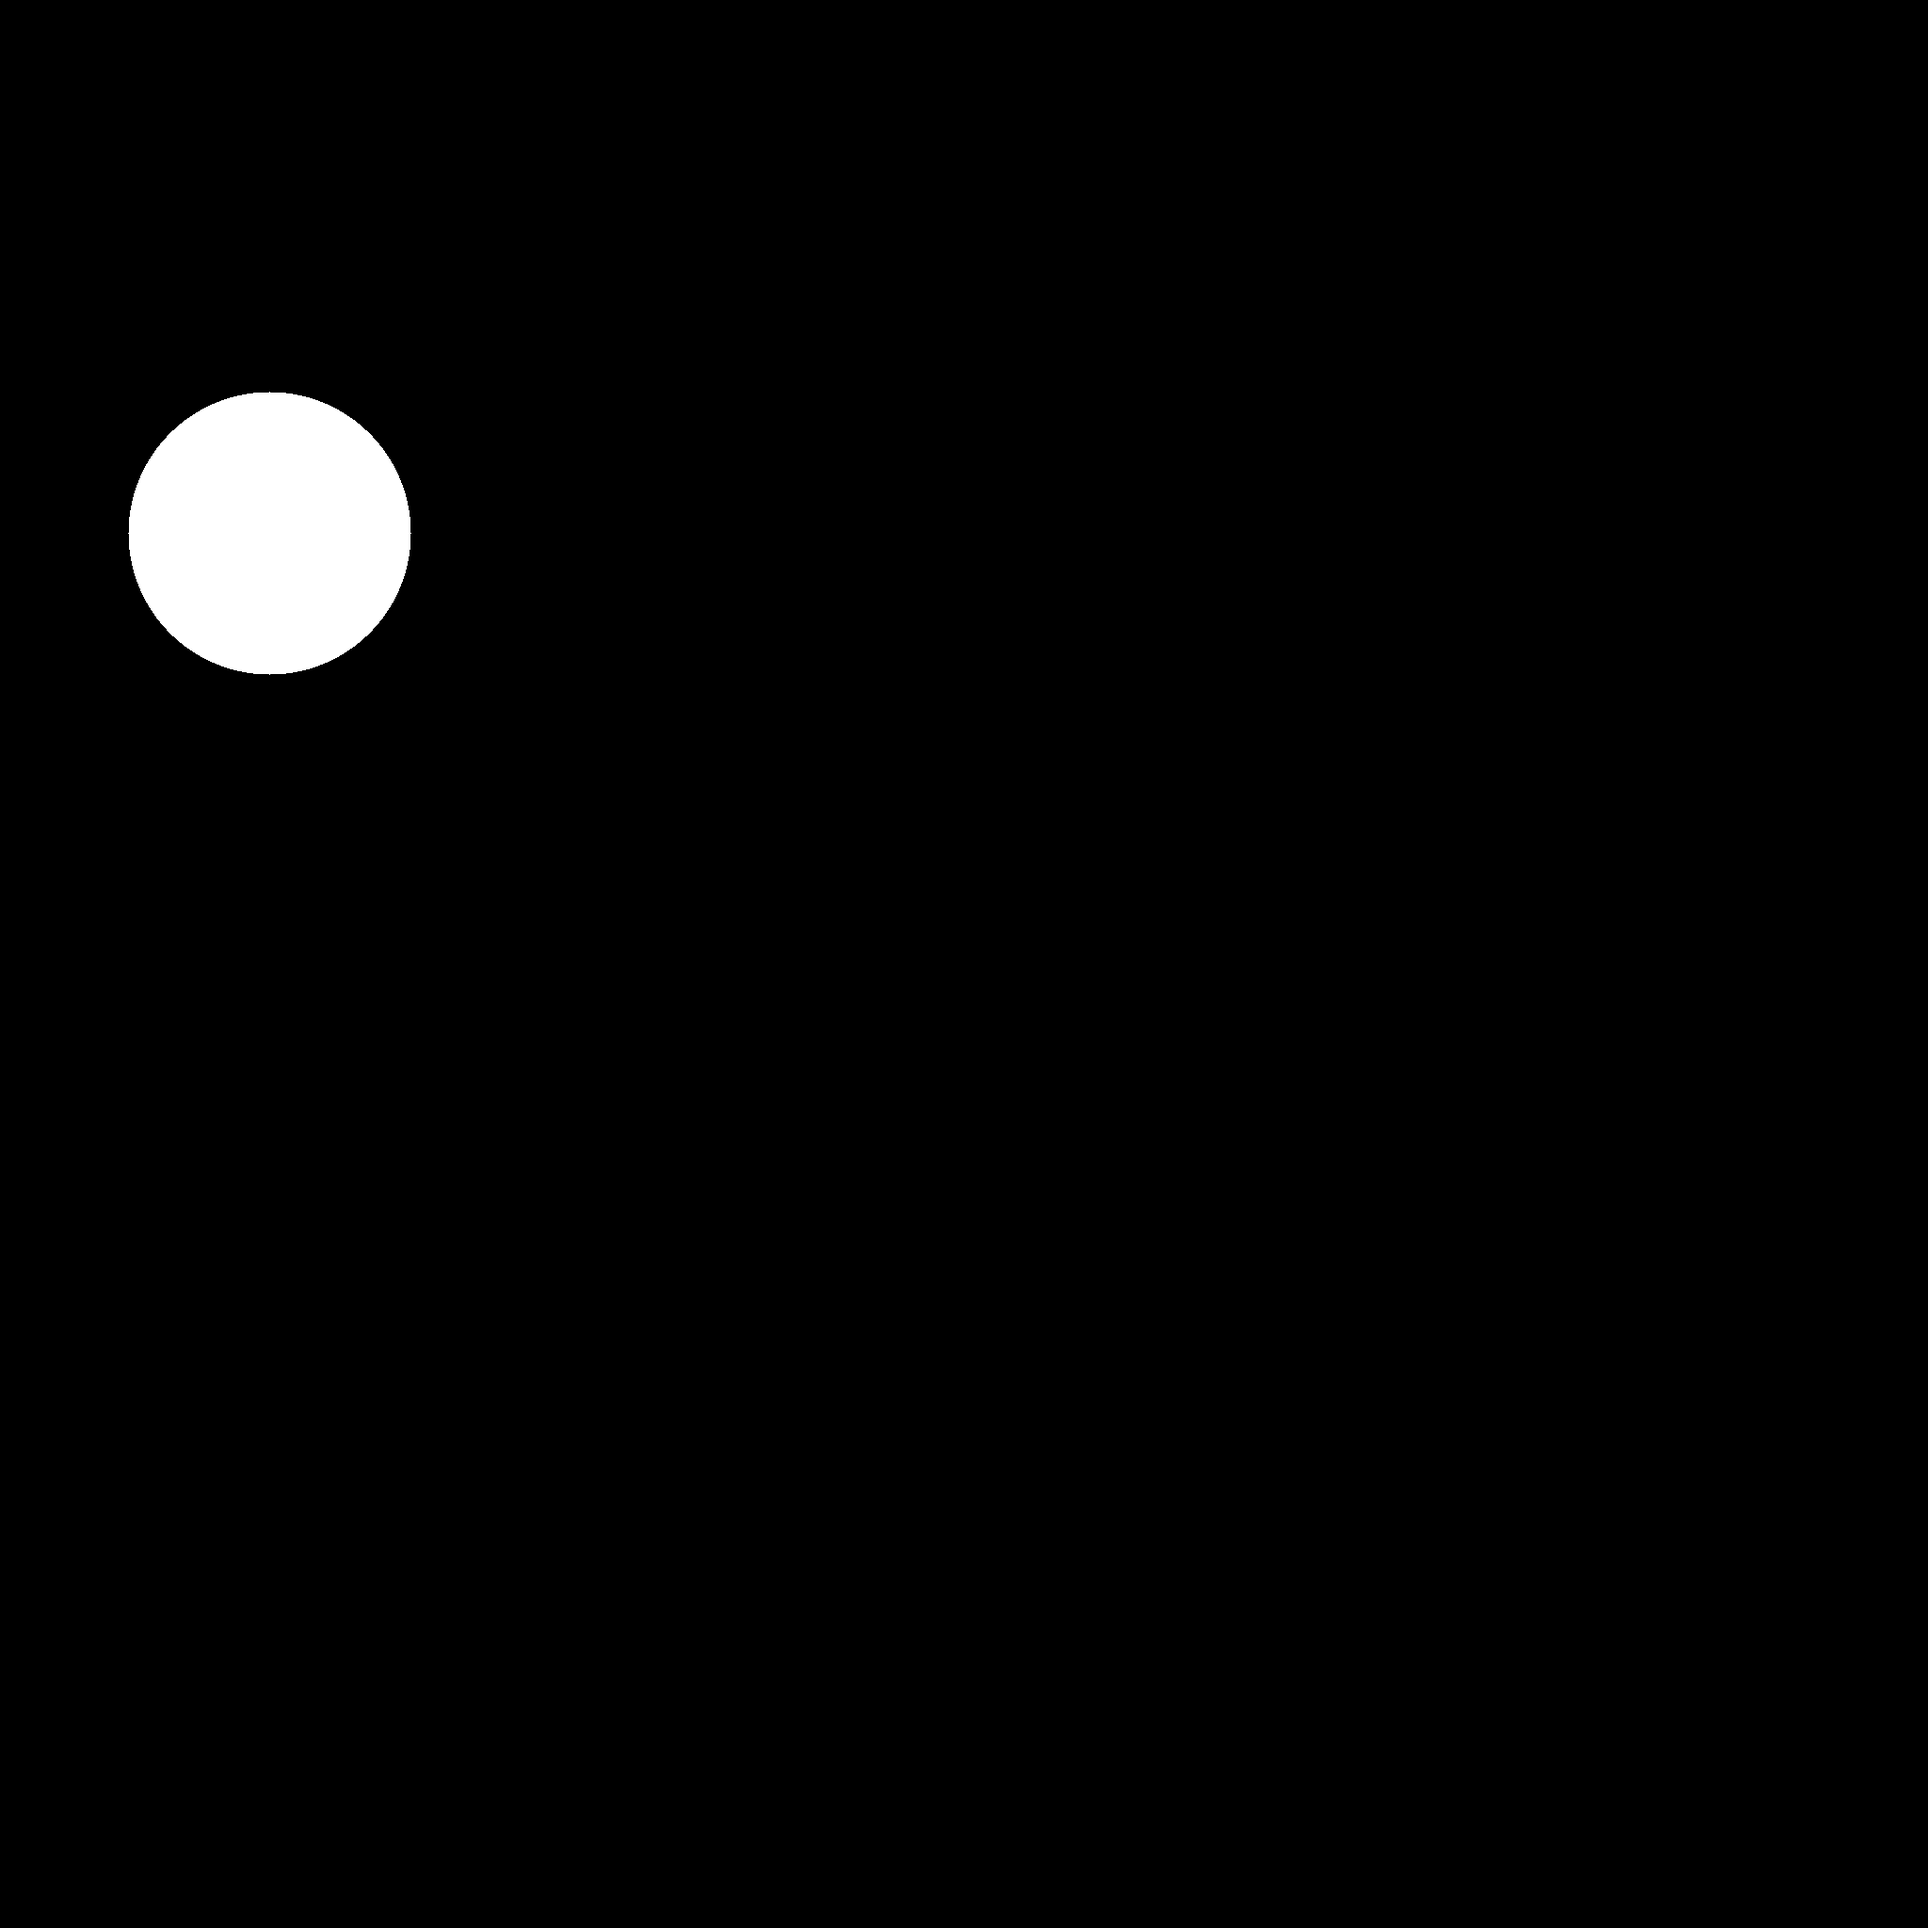
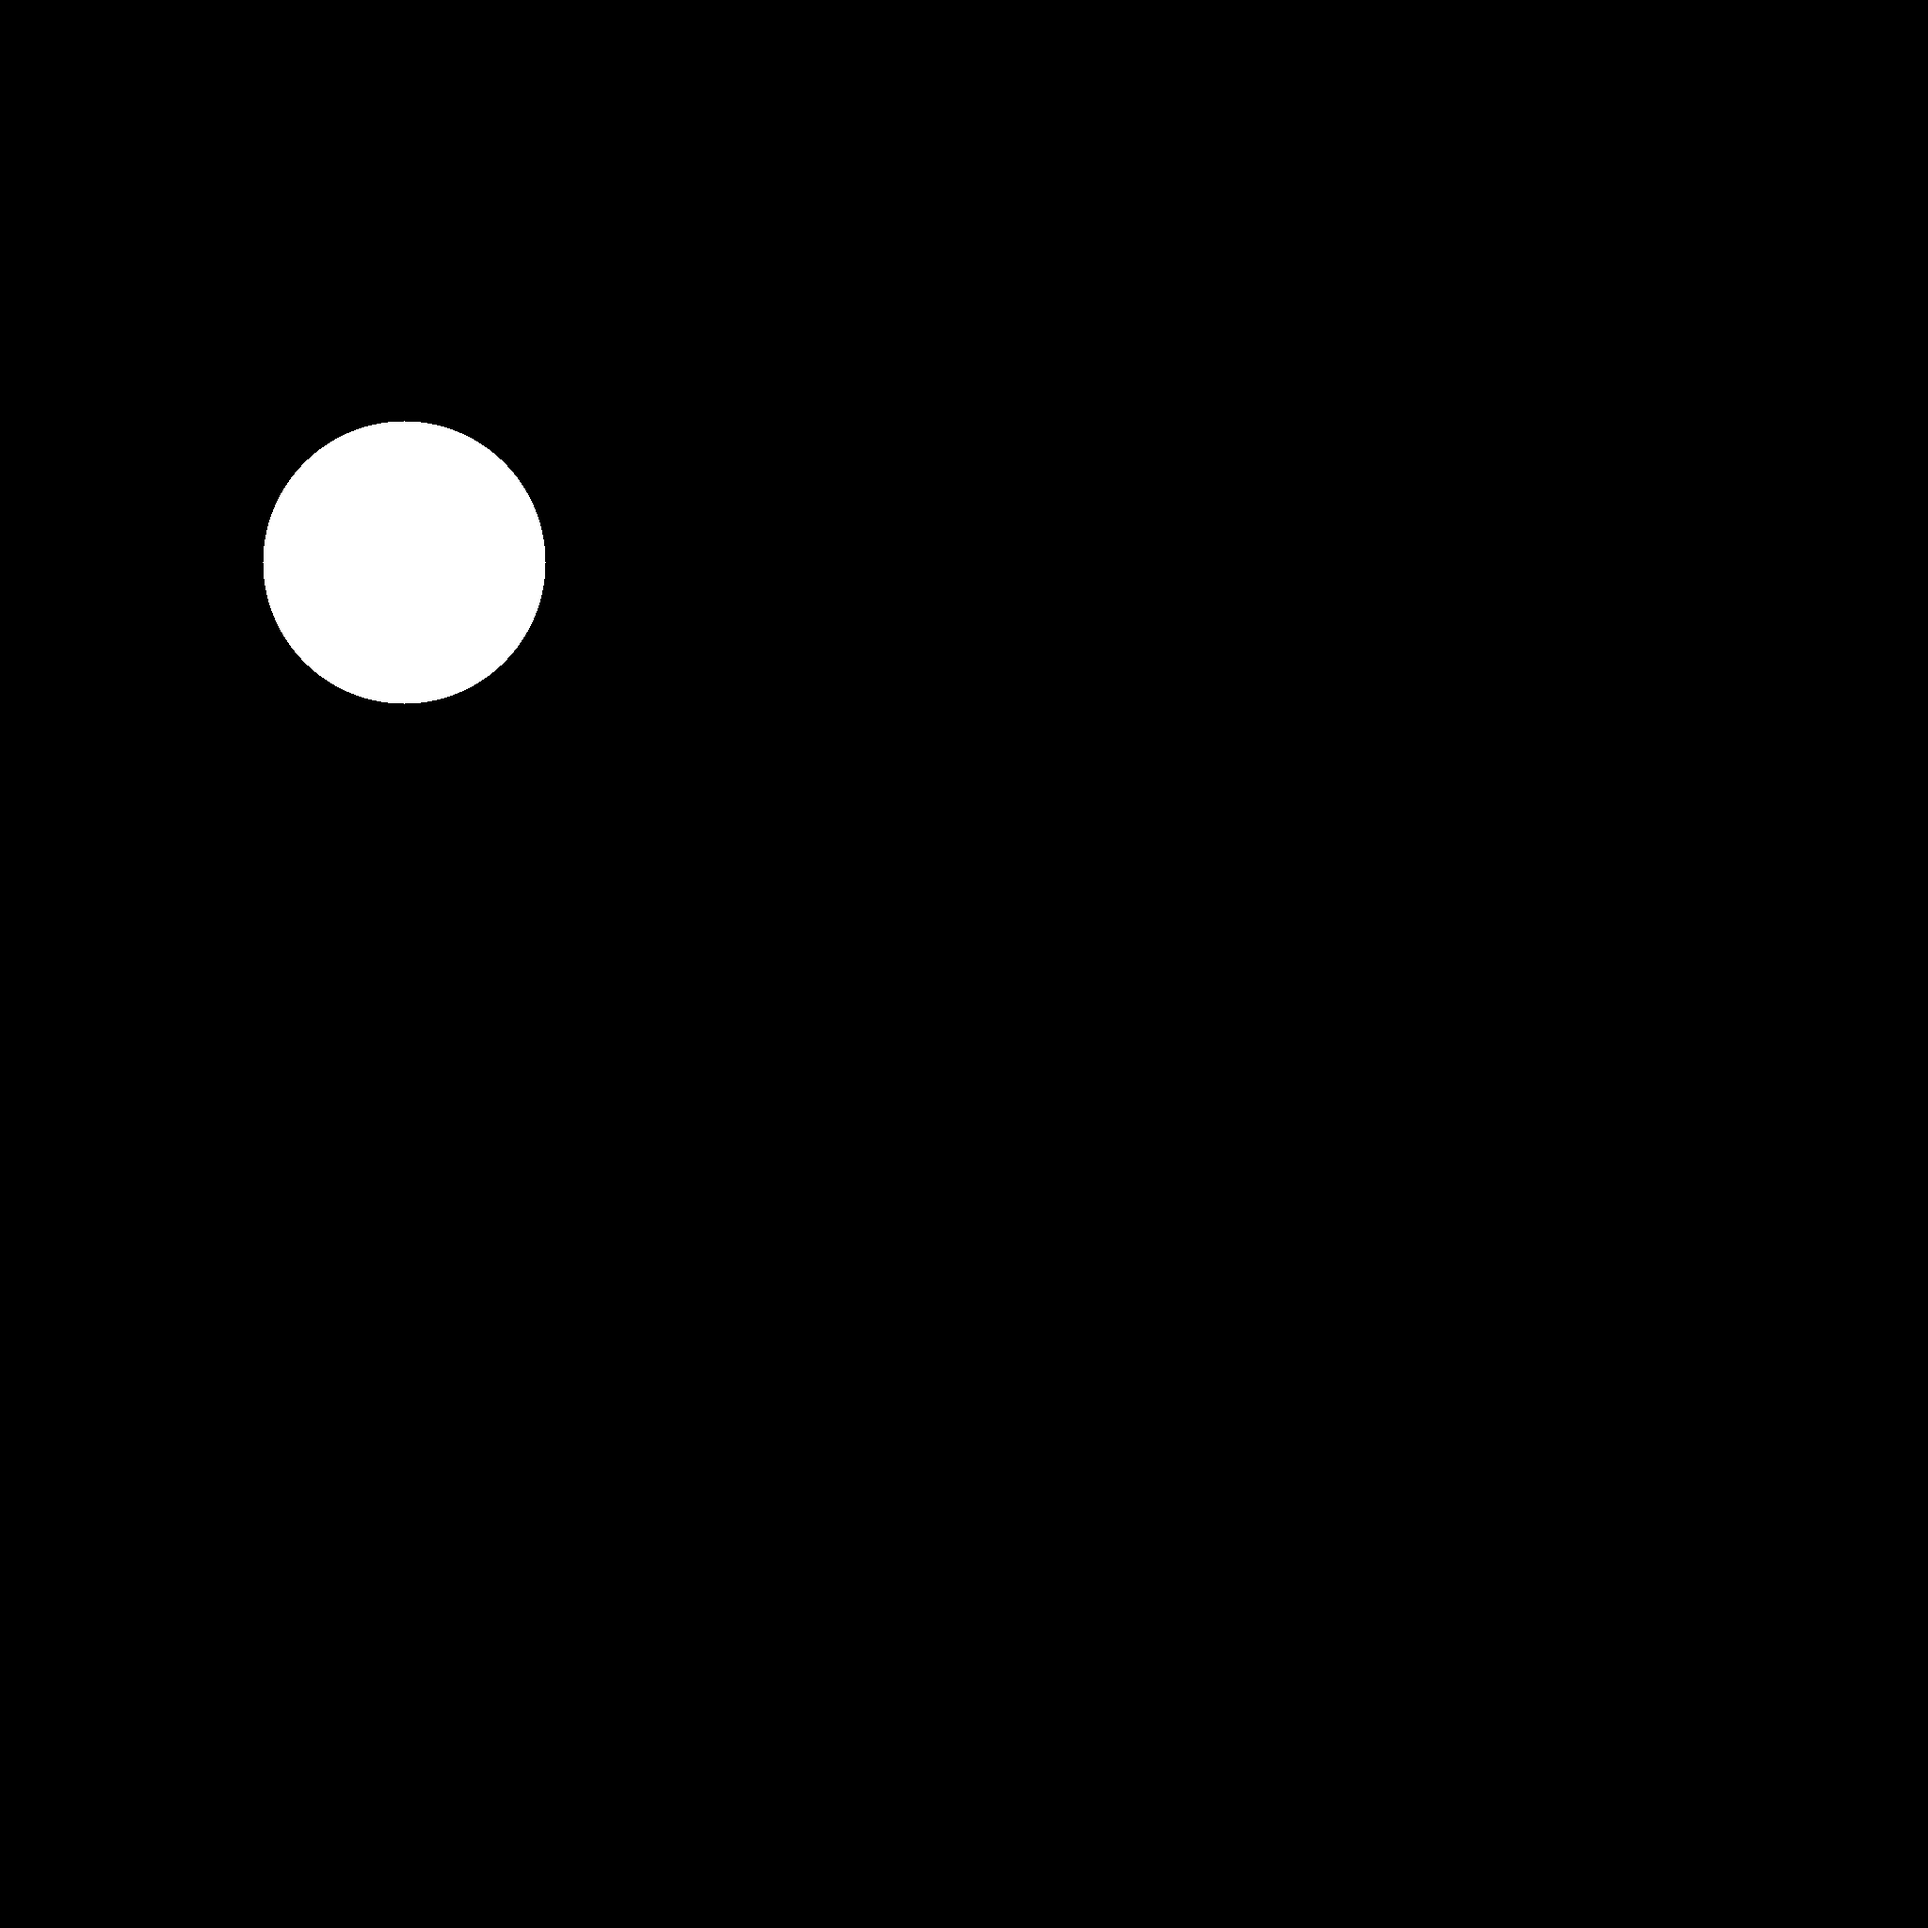
Add files via upload

Changed region(s): [[0.0625, 0.1875, 0.2812, 0.375]]

diff --git a/new_sun2circle.py b/new_sun2circle.py
@@ -69,6 +69,7 @@ def main():
     parser.add_argument('--adj_ang', type=float, default=-5, help='Adjustment angle')
     parser.add_argument('--theta', type=float, default=194.07, help='Theta value of the sun')
     parser.add_argument('--phi', type=float, default=40.31, help='Phi value of the sun')
+    parser.add_argument('--building_ori', type=float, default=264, help='building orientation to North')
 
     args = parser.parse_args()
     return args
@@ -92,7 +93,7 @@ if __name__ == '__main__':
     circle = gaussian_circle(center, radius, sigma)
     circle = Resize(circle, center[0], center[1])
     circle = cv.circle(circle, (center[0]//2, center[1]//2), radius//30, 255, -1)
-    cv.imwrite('gaussian circle.png', circle)
+    cv.imwrite('gaussian_circle.png', circle)
 
     h = canvas_h
     w = canvas_w
@@ -105,12 +106,12 @@ if __name__ == '__main__':
     adj_ang = args.adj_ang
     theta = args.theta
     phi = args.phi
-    building_orient = 264 + adj_ang
+    building_orient = args.building_ori + adj_ang
 
     x_theta, y_phi = Spher2Equ(theta, phi, building_orient)
     dx = w // 2 - x_theta / (math.pi) * w // 2
     dy = h // 2 - y_phi / (math.pi / 2) * h // 2
-    print('dx, dy:', dx, dy)
+    # print('dx, dy:', dx, dy)
 
 
     """
@@ -120,7 +121,7 @@ if __name__ == '__main__':
     rect_img_ = canvas.copy()
     outlined = Draw_Cir(rect_img_, (int(dx), int(dy)), radius=150, color=(255, 255, 255), thickness=-1)
     outlined = Equ2Square(outlined)
-    cv.imwrite(export_path + 'sun_mask2.png', outlined)
+    cv.imwrite('sun_mask.png', outlined)
 
 
     """
@@ -129,5 +130,5 @@ if __name__ == '__main__':
     canvas[int(dy)-center[0]//2:int(dy)+center[0]//2,
            int(dx)-center[1]//2:int(dx)+center[0]//2] = circle
 
-    print('int(dx)-center[1]//2, int(dx)+center[0]//2:', int(dx)-center[1]//2, int(dx)+center[0]//2)
-    cv.imwrite(export_path + 'sun_mask2canvas.png', canvas)
+    # print('int(dx)-center[1]//2, int(dx)+center[0]//2:', int(dx)-center[1]//2, int(dx)+center[0]//2)
+    cv.imwrite('sun2canvas.png', canvas)
